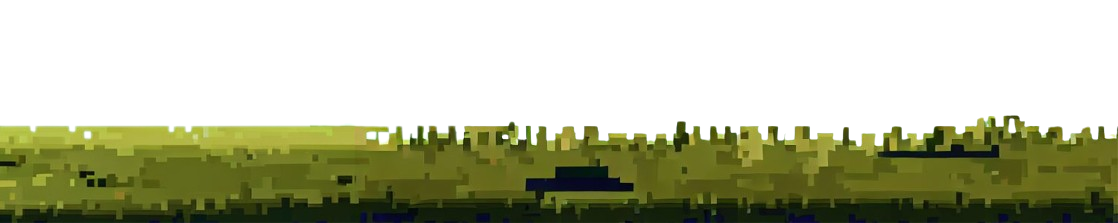
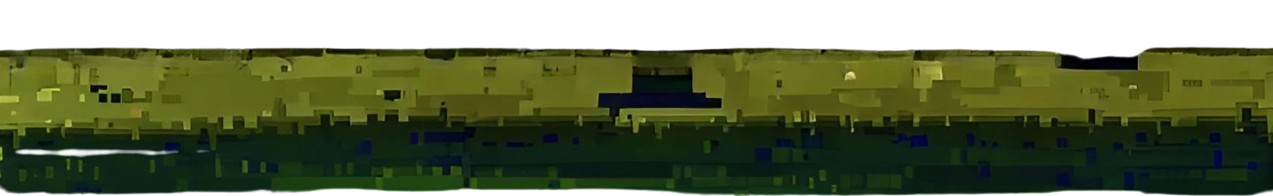
More bumps

diff --git a/lib/core/flame/components/entities/mobs/slime.dart b/lib/core/flame/components/entities/mobs/slime.dart
@@ -6,25 +6,24 @@ import 'package:defend_your_flame/helpers/timestep_helper.dart';
 import 'package:flame/components.dart';
 import 'package:flame/events.dart';
 
-enum SkeletonState { walking, dragged, falling, dying }
+enum SlimeState { walking, dragged, falling, dying }
 
-class Skeleton extends SpriteAnimationGroupComponent<SkeletonState> with DragCallbacks, HasGameReference<MainGame> {
-  // It's a bit small already so 1.2 scale by default.
-  static const _defaultEnlargement = 1.2;
-  static const _walkingFrames = 13;
+class Slime extends SpriteAnimationGroupComponent<SlimeState> with DragCallbacks, HasGameReference<MainGame> {
+  static const _walkingFrames = 4;
   static const _dragFrames = 4;
-  static const _dyingFrames = 15;
 
-  static const _walkingSpeedForward = 25;
+  static const _walkingSpeedForward = 40;
 
   late final double _pickupHeight;
 
   bool _beingDragged = false;
   Vector2 _fallVelocity = Vector2.zero();
 
-  Skeleton({double scaleModifier = 1}) {
-    size = Vector2(22, 33);
-    scale = Vector2.all(scaleModifier * _defaultEnlargement);
+  late final double scaleModifier;
+
+  Slime({this.scaleModifier = 1}) {
+    size = Vector2(34, 27);
+    scale = Vector2.all(scaleModifier);
   }
 
   @override
@@ -35,41 +34,41 @@ class Skeleton extends SpriteAnimationGroupComponent<SkeletonState> with DragCal
 
   @override
   Future<void> onLoad() async {
-    final walkingSprite =
-        SpriteManager.getAnimation('mobs/skeleton/walk', stepTime: 0.09 / scale.x, frames: _walkingFrames, loop: true);
+    final walkingSprite = SpriteManager.getAnimation('mobs/slime/walk',
+        stepTime: 0.12 / scaleModifier, frames: _walkingFrames, loop: true);
 
     final dragSprite =
-        SpriteManager.getAnimation('mobs/skeleton/drag', stepTime: 0.2 / scale.x, frames: _dragFrames, loop: true);
+        SpriteManager.getAnimation('mobs/slime/drag', stepTime: 0.1 / scaleModifier, frames: _dragFrames, loop: true);
 
-    final dyingSprite =
-        SpriteManager.getAnimation('mobs/skeleton/dying', stepTime: 0.07 / scale.x, frames: _dyingFrames, loop: false);
+    final dyingSprite = SpriteManager.getAnimation('mobs/slime/dying',
+        stepTime: 0.07 / scaleModifier, frames: _dragFrames, loop: false);
 
     animations = {
-      SkeletonState.walking: walkingSprite,
-      SkeletonState.dragged: dragSprite,
-      SkeletonState.falling: dragSprite,
-      SkeletonState.dying: dyingSprite,
+      SlimeState.walking: walkingSprite,
+      SlimeState.dragged: dragSprite,
+      SlimeState.falling: dragSprite,
+      SlimeState.dying: dyingSprite,
     };
-    current = SkeletonState.walking;
+    current = SlimeState.walking;
   }
 
   @override
   void update(double dt) {
-    if (current == SkeletonState.walking && !_beingDragged) {
+    if (current == SlimeState.walking && !_beingDragged) {
       // Walk forward
       position.x = TimestepHelper.add(position.x, _walkingSpeedForward * scale.x, dt);
     }
 
-    if (current == SkeletonState.falling) {
+    if (current == SlimeState.falling) {
       _fallVelocity = PhysicsHelper.applyGravityFrictionAndClamp(_fallVelocity, dt);
       position = TimestepHelper.addVector2(position, _fallVelocity, dt);
 
       if (position.y >= _pickupHeight) {
         if (_fallVelocity.y > PhysicsConstants.maxVelocity.y * 0.4) {
           // Random 'death velocity'
-          current = SkeletonState.dying;
+          current = SlimeState.dying;
         } else {
-          current = SkeletonState.walking;
+          current = SlimeState.walking;
         }
       }
     }
@@ -87,7 +86,7 @@ class Skeleton extends SpriteAnimationGroupComponent<SkeletonState> with DragCal
   void onDragUpdate(DragUpdateEvent event) {
     super.onDragUpdate(event);
     position += event.canvasDelta / game.cameraZoom;
-    _fallVelocity = event.canvasDelta * game.cameraZoom * 70;
+    _fallVelocity = event.canvasDelta * game.cameraZoom * 50;
   }
 
   @override
@@ -108,7 +107,7 @@ class Skeleton extends SpriteAnimationGroupComponent<SkeletonState> with DragCal
     }
 
     _beingDragged = true;
-    current = SkeletonState.dragged;
+    current = SlimeState.dragged;
   }
 
   void stopDragging() {
@@ -118,7 +117,7 @@ class Skeleton extends SpriteAnimationGroupComponent<SkeletonState> with DragCal
 
     _beingDragged = false;
     if (position.y < _pickupHeight - 10) {
-      current = SkeletonState.falling;
+      current = SlimeState.falling;
     }
   }
 }

diff --git a/lib/core/flame/worlds/main_world.dart b/lib/core/flame/worlds/main_world.dart
@@ -1,6 +1,8 @@
 import 'package:defend_your_flame/constants/constants.dart';
 import 'package:defend_your_flame/core/flame/components/buildings/castle.dart';
 import 'package:defend_your_flame/core/flame/components/debug/camera_border.dart';
+import 'package:defend_your_flame/core/flame/components/entities/mobs/slime.dart';
+import 'package:defend_your_flame/core/flame/components/environment/background_scenery.dart';
 import 'package:defend_your_flame/core/flame/components/environment/ground.dart';
 import 'package:defend_your_flame/core/flame/components/environment/moon.dart';
 import 'package:defend_your_flame/core/flame/components/entities/mobs/skeleton.dart';
@@ -13,29 +15,37 @@ class MainWorld extends World with HasGameReference<MainGame> {
   double get worldHeight => Constants.desiredHeight;
   double get worldWidth => Constants.desiredWidth;
 
+  late final BackgroundScenery _backgroundScenery = BackgroundScenery()
+    ..position = Vector2(0, worldHeight)
+    ..anchor = Anchor.bottomLeft
+    ..opacity = 0.35;
+
   late final Ground _ground = Ground()
     ..position = Vector2(0, worldHeight)
     ..anchor = Anchor.bottomLeft;
 
   late final Castle _castle = Castle()
-    ..position = Vector2(worldWidth - 300, worldHeight - 40)
+    ..position = Vector2(worldWidth - 300, worldHeight - 50)
     ..anchor = Anchor.bottomLeft;
 
   @override
   Future<void> onLoad() async {
     add(Moon());
+    add(_backgroundScenery);
     add(_ground);
     add(_castle);
 
     add(CameraBorder());
 
-    var skeletonSpawner = SpawnComponent(
-      factory: (int _) => Skeleton(scaleModifier: MiscHelper.randomDouble(minValue: 1, maxValue: 1.5)),
+    var mobSpawner = SpawnComponent(
+      factory: (int _) => MiscHelper.randomChance(chance: 80)
+          ? Skeleton(scaleModifier: MiscHelper.randomDouble(minValue: 1, maxValue: 1.5))
+          : Slime(scaleModifier: MiscHelper.randomDouble(minValue: 1, maxValue: 1.3)),
       period: 1.0,
-      area: Circle(Vector2(-30, worldHeight - 110), 35),
+      area: Circle(Vector2(-30, worldHeight - 130), 60),
     );
 
-    add(skeletonSpawner);
+    add(mobSpawner);
 
     return super.onLoad();
   }

diff --git a/lib/core/flame/game_provider.dart b/lib/core/flame/game_provider.dart
@@ -10,15 +10,12 @@ class GameProvider extends Model {
 
   late final MainWorld _mainWorld = MainWorld();
 
-  final FixedAspectRatioViewport _viewportOptions = FixedAspectRatioViewport(aspectRatio: Constants.desireAspectRatio)
-    ..anchor = Anchor.topLeft;
-
   final Viewfinder _viewfinder = Viewfinder()
     ..anchor = Anchor.topLeft
     ..visibleGameSize = Vector2(Constants.desiredWidth, Constants.desiredHeight);
 
-  late final CameraComponent _cameraComponent =
-      CameraComponent(world: _mainWorld, viewport: _viewportOptions, viewfinder: _viewfinder);
+  late final CameraComponent _cameraComponent = CameraComponent.withFixedResolution(
+      width: Constants.desiredWidth, height: Constants.desiredHeight, viewfinder: _viewfinder, world: _mainWorld);
 
   // Apparently the pauseWhenBackgrounded is not working on non-mobile (https://docs.flame-engine.org/latest/flame/game.html)
   late final MainGame _game = MainGame(world: _mainWorld, camera: _cameraComponent)..pauseWhenBackgrounded = false;

diff --git a/lib/states/state_manager.dart b/lib/states/state_manager.dart
@@ -9,7 +9,7 @@ import 'package:flutter_localizations/flutter_localizations.dart';
 */
 
 class StateManager extends StatefulWidget {
-  const StateManager({Key? key}) : super(key: key);
+  const StateManager({super.key});
 
   @override
   State<StateManager> createState() => _StateManagerState();
@@ -31,8 +31,8 @@ class _StateManagerState extends State<StateManager> with WidgetsBindingObserver
           '/': (context) {
             var game = GameProvider.of(context).game;
             return Scaffold(
-              body: WillPopScope(
-                  onWillPop: () async => false,
+              body: PopScope(
+                  canPop: false,
                   child: GameWidget(
                     game: game,
                     backgroundBuilder: (context) => const Background(),

diff --git a/lib/core/flame/components/environment/background_scenery.dart b/lib/core/flame/components/environment/background_scenery.dart
@@ -1,0 +1,10 @@
+import 'package:defend_your_flame/constants/constants.dart';
+import 'package:defend_your_flame/core/flame/managers/sprite_manager.dart';
+import 'package:defend_your_flame/core/flame/worlds/main_world.dart';
+import 'package:flame/components.dart';
+
+class BackgroundScenery extends SpriteComponent with HasAncestor<MainWorld> {
+  BackgroundScenery() : super(size: Vector2(1440, 746), sprite: SpriteManager.getSprite('background')) {
+    scale = Vector2.all(Constants.desiredWidth / 1440);
+  }
+}

diff --git a/lib/widgets/background.dart b/lib/widgets/background.dart
@@ -3,7 +3,7 @@ import "package:flutter/material.dart";
 class Background extends StatefulWidget {
   final Widget? child;
 
-  const Background({Key? key, this.child}) : super(key: key);
+  const Background({super.key, this.child});
 
   @override
   State<Background> createState() => _BackgroundState();

diff --git a/lib/helpers/misc_helper.dart b/lib/helpers/misc_helper.dart
@@ -9,4 +9,8 @@ class MiscHelper {
   static T randomElement<T>(List<T> list) {
     return list[GlobalVars.rand.nextInt(list.length)];
   }
+
+  static randomChance({required int chance}) {
+    return GlobalVars.rand.nextInt(100) < chance;
+  }
 }
